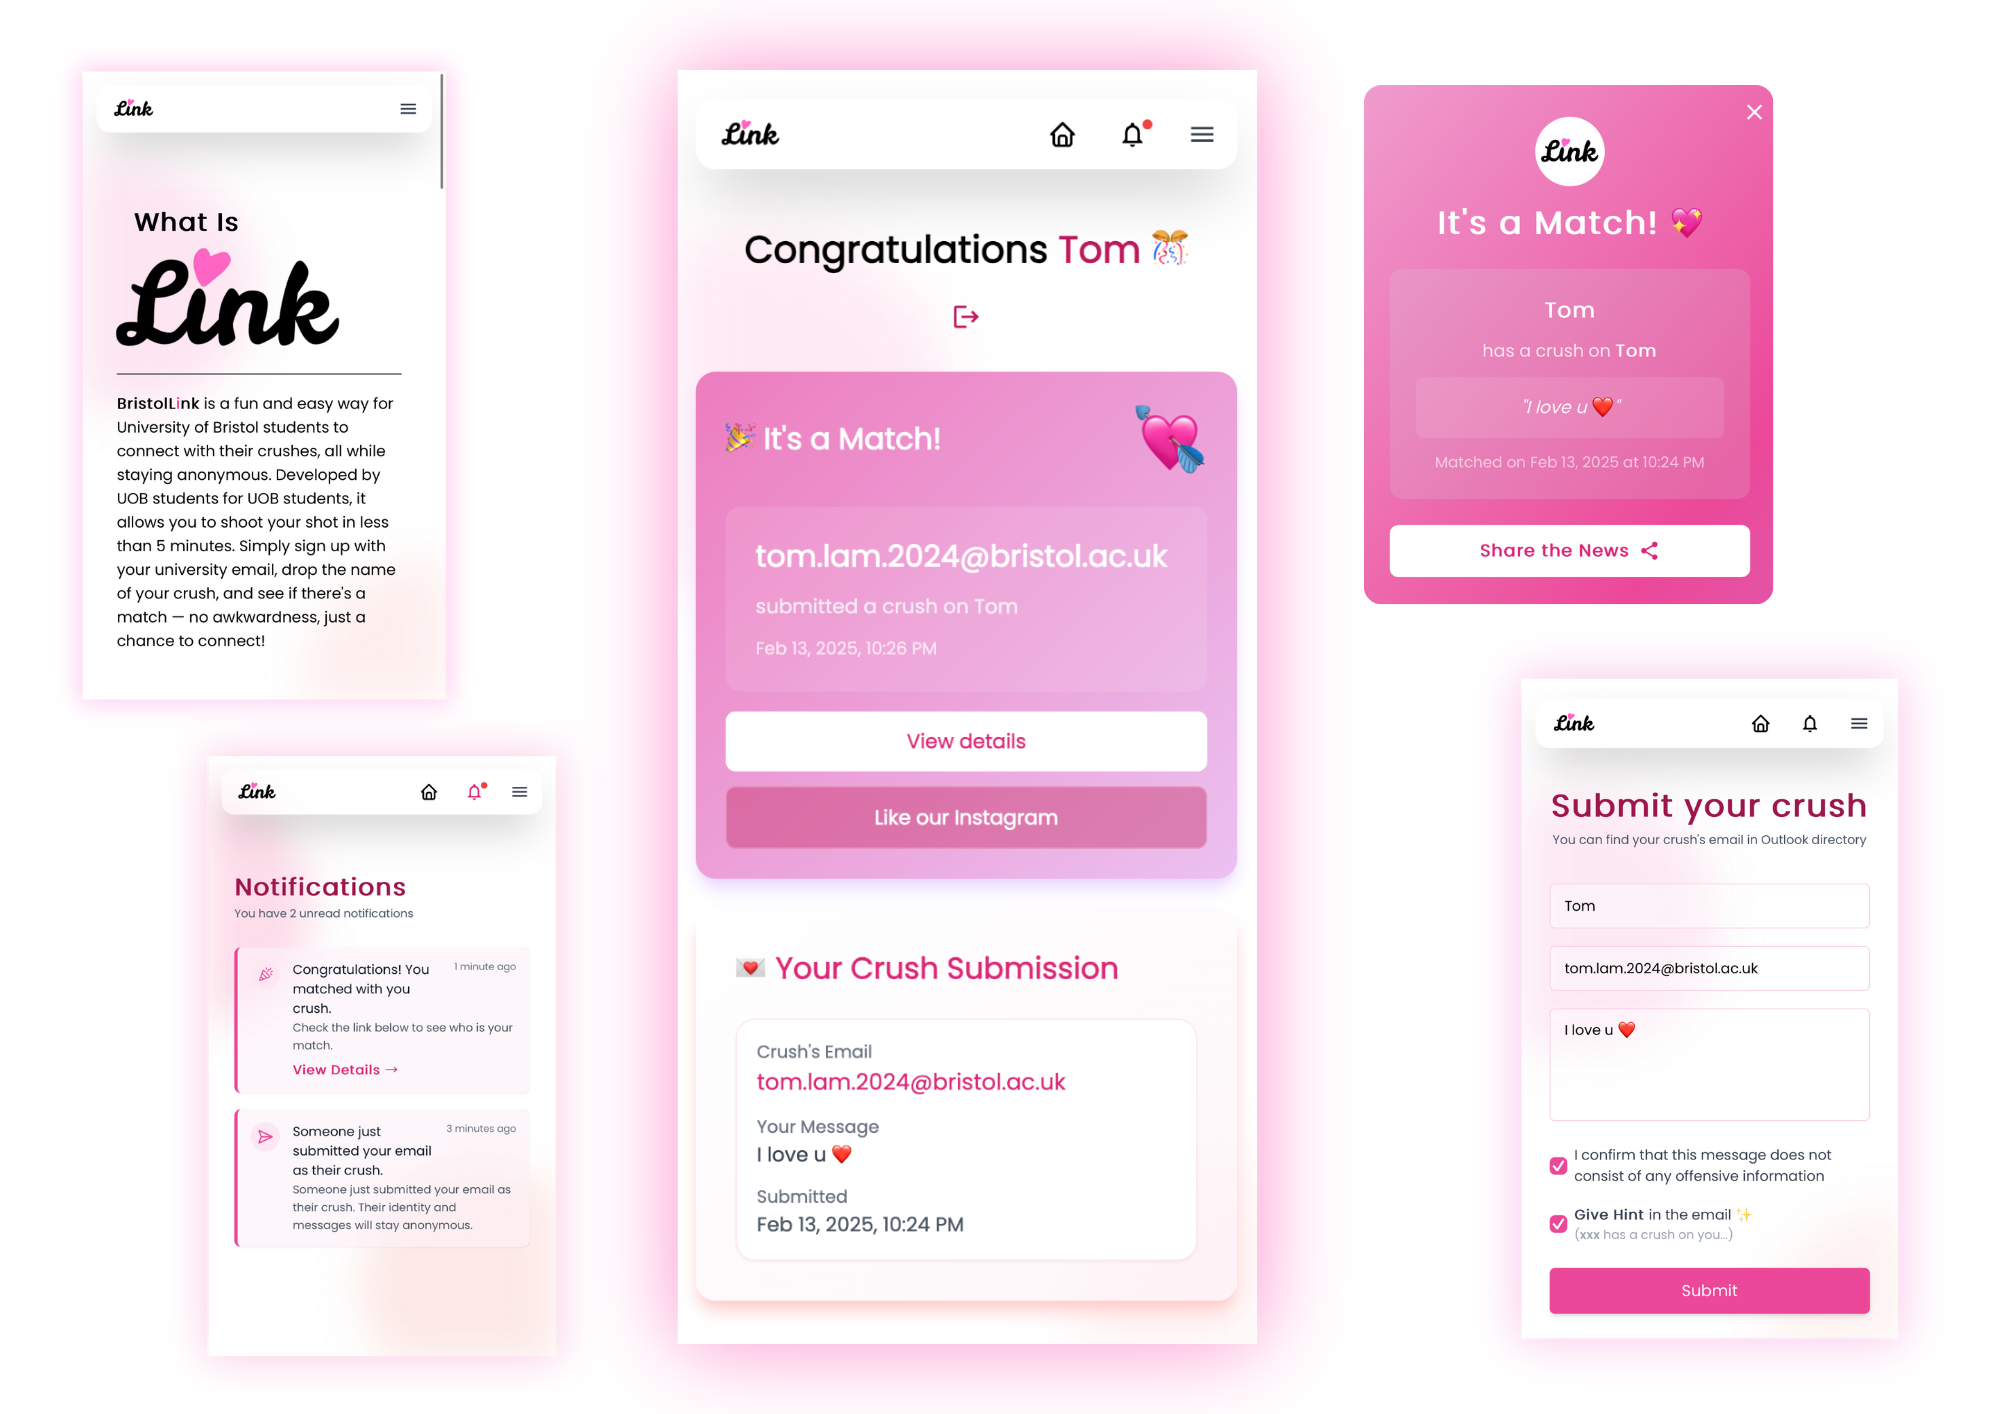
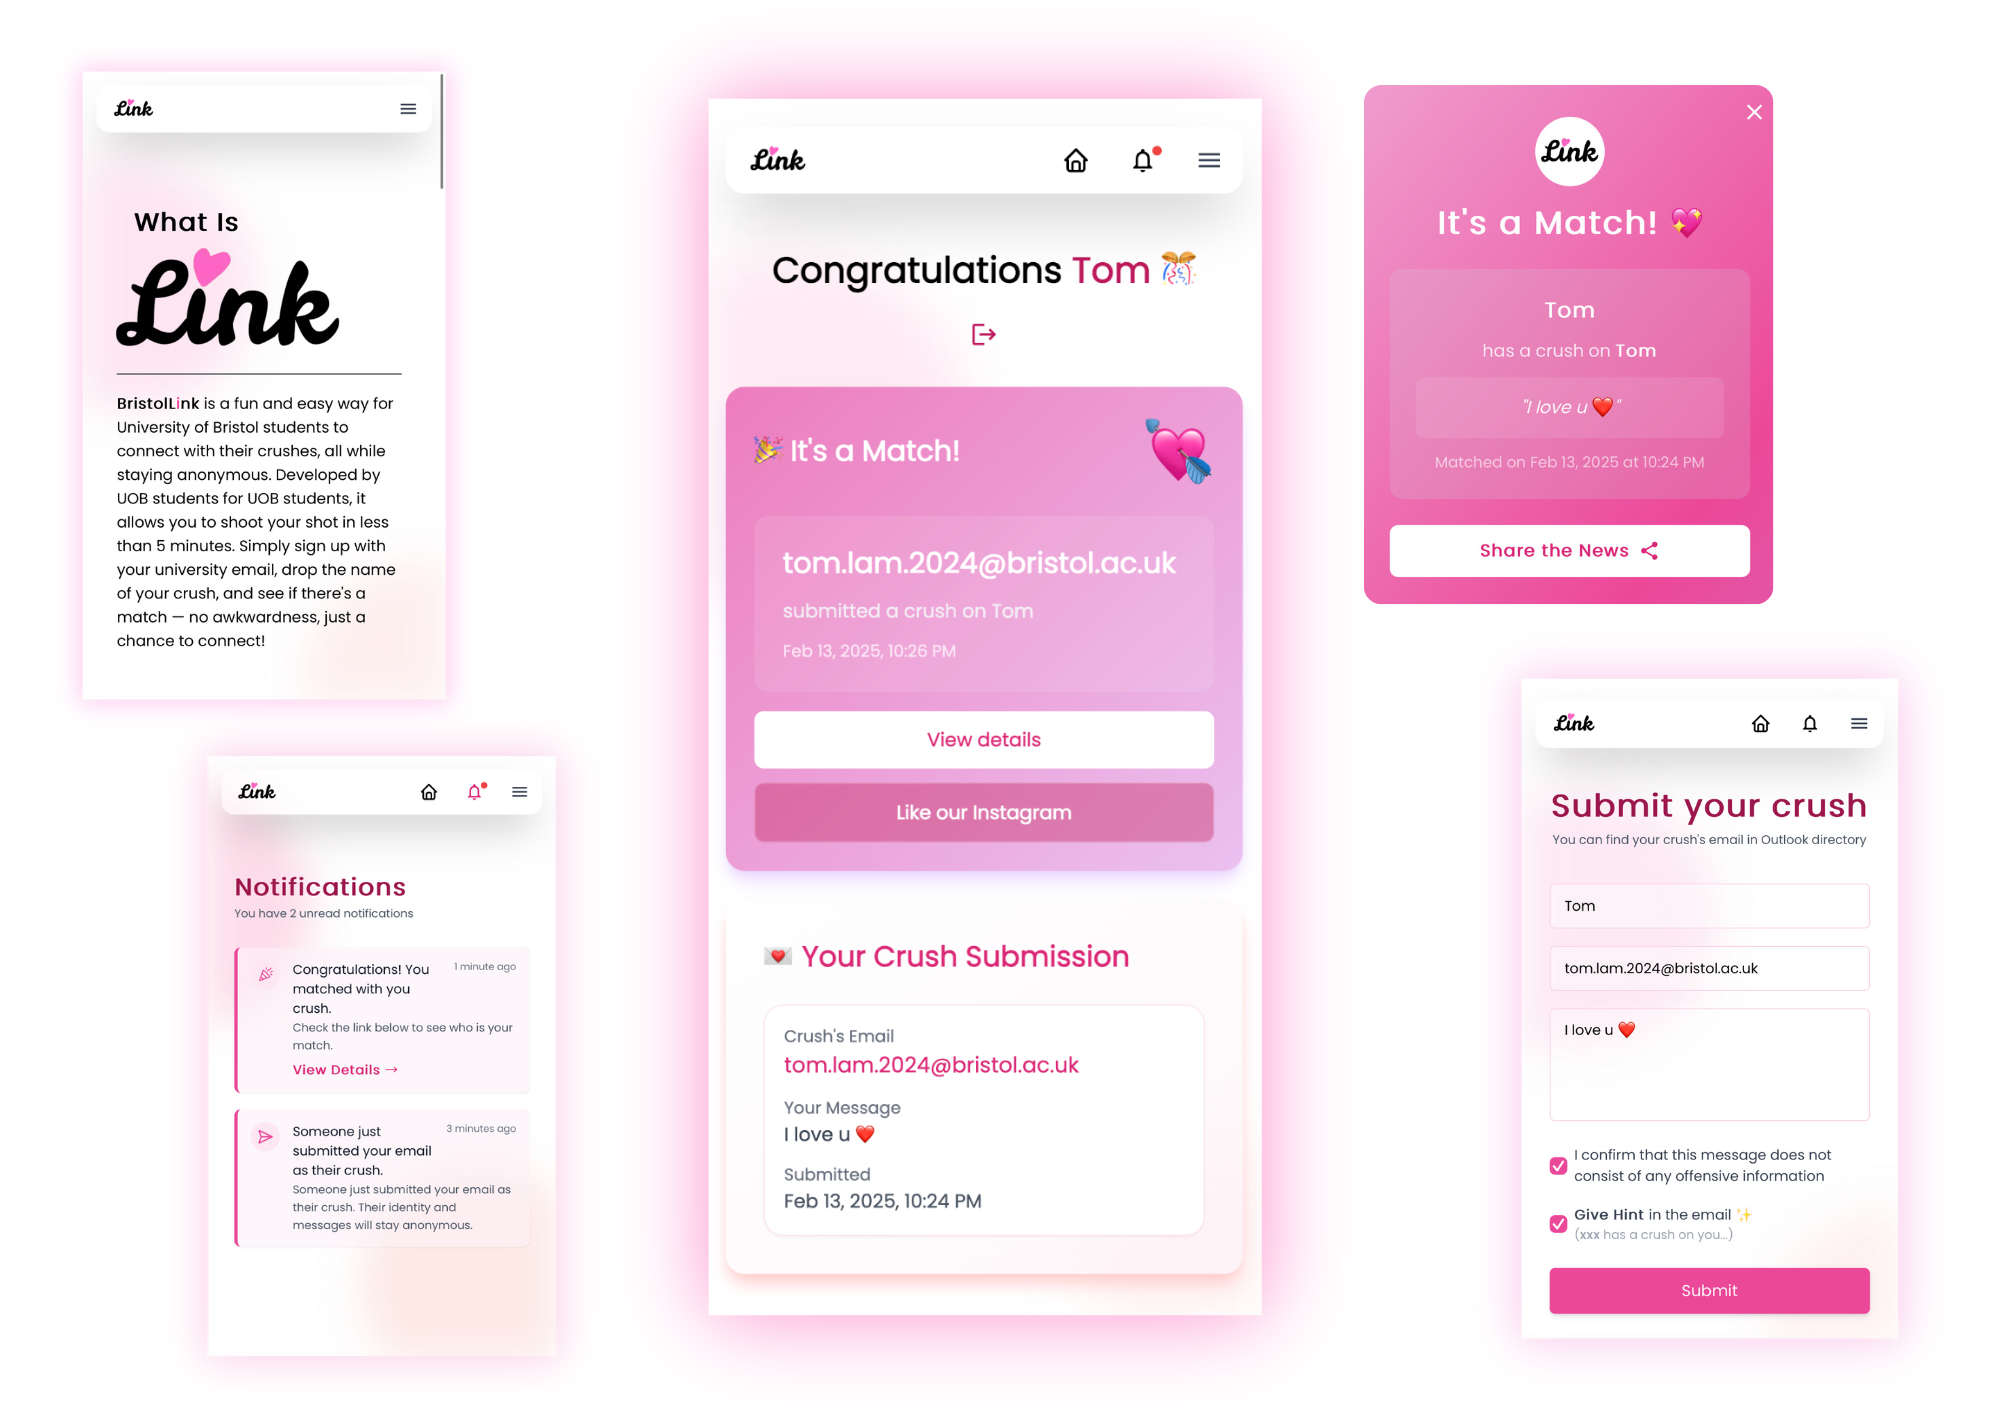
Add pages image to README.md

Changed region(s): [[0.31, 0.0311, 0.651, 0.9646]]

diff --git a/README.md b/README.md
@@ -1,4 +1,6 @@
 <p align="center"><a href="https://bristollink.uk"><img src="frontend/public/link_banner.png" width="50%"></img></a></p>
+<img src="frontend/public/pages.png" />
+
 
 # BristolLink
 A match-making platform for University of Bristol student during Valentine's Day 2025. <br>
